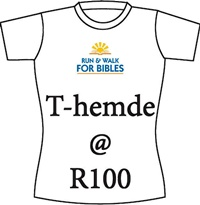
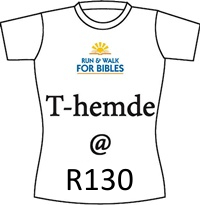
Updates to t-shirt and added sponsors
+ Changed T-Shirt price from R100 to R130
+ Added sponsors: monitor net and ISS

Changed region(s): [[0.33, 0.8195, 0.69, 0.9366]]

diff --git a/index.html b/index.html
@@ -245,6 +245,16 @@
                       <img src="images/logos/sheq.png" alt="Sheq Advance" class="img-responsive logo">
                   </div>
               </div>
+              <div class="row">
+                <div class="col-sm-4">
+                    <img src="images/logos/iss.jpg" alt="Clubview SPAR" class="img-responsive logo">
+                </div>
+                  <div class="col-sm-4">
+                      <img src="images/logos/monitor-net.jpg" alt="Athletics Gauteng North" class="img-responsive logo">
+                  </div>
+                  <div class="col-sm-4">
+                  </div>
+              </div>
           </div><!--logos-->
         </div><!--container-->
     </section><!--/#cta-->
